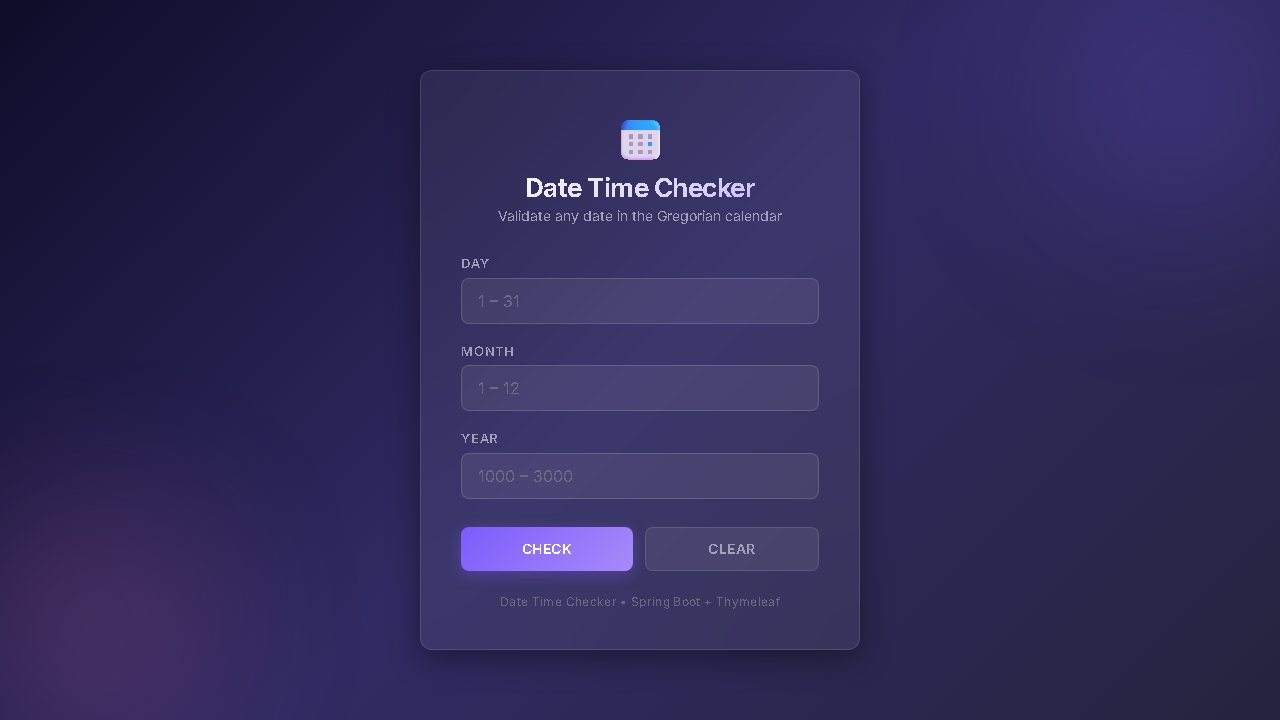
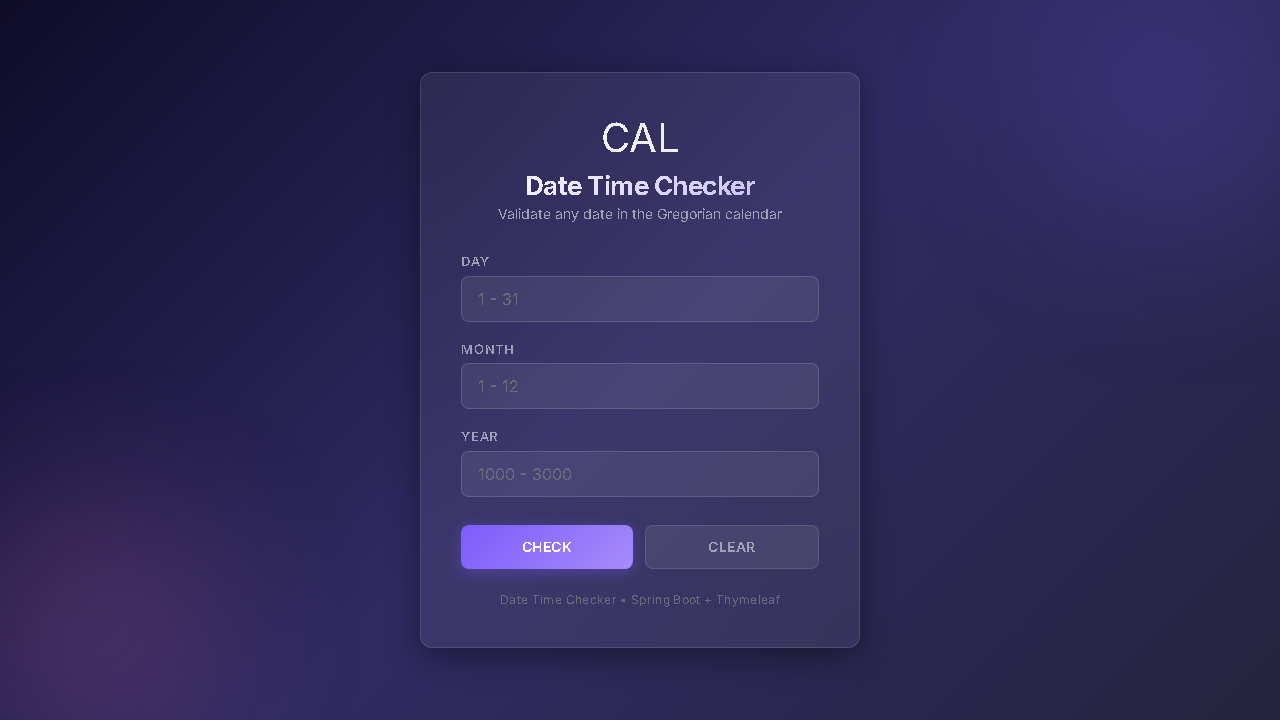
Configure CI performance and visual tests

diff --git a/src/main/resources/templates/index.html b/src/main/resources/templates/index.html
@@ -1,81 +1,99 @@
 <!DOCTYPE html>
 <html xmlns:th="http://www.thymeleaf.org" lang="en">
-<head>
-    <meta charset="UTF-8">
-    <meta name="viewport" content="width=device-width, initial-scale=1.0">
-    <meta name="description" content="Date Time Checker — Validate any date in the Gregorian calendar. Enter day, month, and year to check if it's a valid date.">
+  <head>
+    <meta charset="UTF-8" />
+    <meta name="viewport" content="width=device-width, initial-scale=1.0" />
+    <meta
+      name="description"
+      content="Date Time Checker - Validate any date in the Gregorian calendar. Enter day, month, and year to check if it is a valid date."
+    />
     <title>Date Time Checker</title>
-    <link rel="stylesheet" th:href="@{/style.css}">
-</head>
-<body>
-
-<div class="card">
-    <!-- Header -->
-    <div class="header">
-        <span class="header__icon">📅</span>
+    <link rel="stylesheet" th:href="@{/style.css}" />
+  </head>
+  <body>
+    <div class="card">
+      <div class="header">
+        <span class="header__icon" aria-hidden="true">CAL</span>
         <h1 class="header__title">Date Time Checker</h1>
-        <p class="header__subtitle">Validate any date in the Gregorian calendar</p>
-    </div>
+        <p class="header__subtitle">
+          Validate any date in the Gregorian calendar
+        </p>
+      </div>
 
-    <!-- Date Input Form -->
-    <form class="form" th:action="@{/check}" method="post" id="dateForm">
+      <form class="form" th:action="@{/check}" method="post" id="dateForm">
         <div class="form__group">
-            <label class="form__label" for="dayInput">Day</label>
-            <input class="form__input"
-                   type="text"
-                   id="dayInput"
-                   name="day"
-                   placeholder="1 – 31"
-                   th:value="${day}"
-                   autocomplete="off"
-                   required>
+          <label class="form__label" for="dayInput">Day</label>
+          <input
+            class="form__input"
+            type="text"
+            id="dayInput"
+            name="day"
+            placeholder="1 - 31"
+            th:value="${day}"
+            autocomplete="off"
+            required
+          />
         </div>
 
         <div class="form__group">
-            <label class="form__label" for="monthInput">Month</label>
-            <input class="form__input"
-                   type="text"
-                   id="monthInput"
-                   name="month"
-                   placeholder="1 – 12"
-                   th:value="${month}"
-                   autocomplete="off"
-                   required>
+          <label class="form__label" for="monthInput">Month</label>
+          <input
+            class="form__input"
+            type="text"
+            id="monthInput"
+            name="month"
+            placeholder="1 - 12"
+            th:value="${month}"
+            autocomplete="off"
+            required
+          />
         </div>
 
         <div class="form__group">
-            <label class="form__label" for="yearInput">Year</label>
-            <input class="form__input"
-                   type="text"
-                   id="yearInput"
-                   name="year"
-                   placeholder="1000 – 3000"
-                   th:value="${year}"
-                   autocomplete="off"
-                   required>
+          <label class="form__label" for="yearInput">Year</label>
+          <input
+            class="form__input"
+            type="text"
+            id="yearInput"
+            name="year"
+            placeholder="1000 - 3000"
+            th:value="${year}"
+            autocomplete="off"
+            required
+          />
         </div>
 
         <div class="form__buttons">
-            <button type="submit" class="btn btn--primary" id="checkBtn">Check</button>
-            <a th:href="@{/}" class="btn btn--secondary" id="clearBtn"
-               style="text-align: center; text-decoration: none; display: inline-flex; align-items: center; justify-content: center;">
-                Clear
-            </a>
+          <button type="submit" class="btn btn--primary" id="checkBtn">
+            Check
+          </button>
+          <a
+            th:href="@{/}"
+            class="btn btn--secondary"
+            id="clearBtn"
+            style="
+              text-align: center;
+              text-decoration: none;
+              display: inline-flex;
+              align-items: center;
+              justify-content: center;
+            "
+          >
+            Clear
+          </a>
         </div>
-    </form>
+      </form>
 
-    <!-- Result Message -->
-    <div th:if="${result}" class="result"
-         th:classappend="${isValid} ? 'result--success' : 'result--error'"
-         id="resultMessage">
+      <div
+        th:if="${result}"
+        class="result"
+        th:classappend="${isValid} ? 'result--success' : 'result--error'"
+        id="resultMessage"
+      >
         <span th:text="${result}"></span>
-    </div>
+      </div>
 
-    <!-- Footer -->
-    <div class="footer">
-        Date Time Checker &bull; Spring Boot + Thymeleaf
+      <div class="footer">Date Time Checker &bull; Spring Boot + Thymeleaf</div>
     </div>
-</div>
-
-</body>
+  </body>
 </html>

diff --git a/playwright.config.js b/playwright.config.js
@@ -1,5 +1,5 @@
 // @ts-check
-import { defineConfig, devices } from '@playwright/test';
+const { defineConfig, devices } = require('@playwright/test');
 
 /**
  * Read environment variables from file.
@@ -12,7 +12,7 @@ import { defineConfig, devices } from '@playwright/test';
 /**
  * @see https://playwright.dev/docs/test-configuration
  */
-export default defineConfig({
+module.exports = defineConfig({
   testDir: './tests',
   /* Run tests in files in parallel */
   fullyParallel: true,
@@ -23,14 +23,15 @@ export default defineConfig({
   /* Opt out of parallel tests on CI. */
   workers: process.env.CI ? 1 : undefined,
   /* Reporter to use. See https://playwright.dev/docs/test-reporters */
-  reporter: 'html',
+  reporter: process.env.CI ? [['list'], ['html', { open: 'never' }]] : 'html',
   /* Shared settings for all the projects below. See https://playwright.dev/docs/api/class-testoptions. */
   use: {
     /* Base URL to use in actions like `await page.goto('')`. */
-    // baseURL: 'http://localhost:3000',
+    baseURL: process.env.BASE_URL || 'http://localhost:8080',
 
     /* Collect trace when retrying the failed test. See https://playwright.dev/docs/trace-viewer */
     trace: 'on-first-retry',
+    screenshot: 'only-on-failure',
   },
 
   /* Configure projects for major browsers */
@@ -78,4 +79,3 @@ export default defineConfig({
   //   reuseExistingServer: !process.env.CI,
   // },
 });
-

diff --git a/performance/load-test.js b/performance/load-test.js
@@ -11,7 +11,8 @@ export const options = {
 };
 
 export default function () {
-  const res = http.get("http://localhost:8080");
+  const baseUrl = __ENV.BASE_URL || "http://localhost:8080";
+  const res = http.get(baseUrl);
 
   check(res, {
     "status is 200": (r) => r.status === 200,

diff --git a/tests/visual.spec.js b/tests/visual.spec.js
@@ -3,11 +3,12 @@ const { test, expect } = require("@playwright/test");
 test("homepage visual regression test", async ({ page }) => {
   await page.setViewportSize({ width: 1280, height: 720 });
 
-  await page.goto("http://localhost:8080", {
+  await page.goto("/", {
     waitUntil: "networkidle",
   });
 
   await expect(page).toHaveScreenshot("homepage.png", {
+    animations: "disabled",
     fullPage: true,
   });
 });